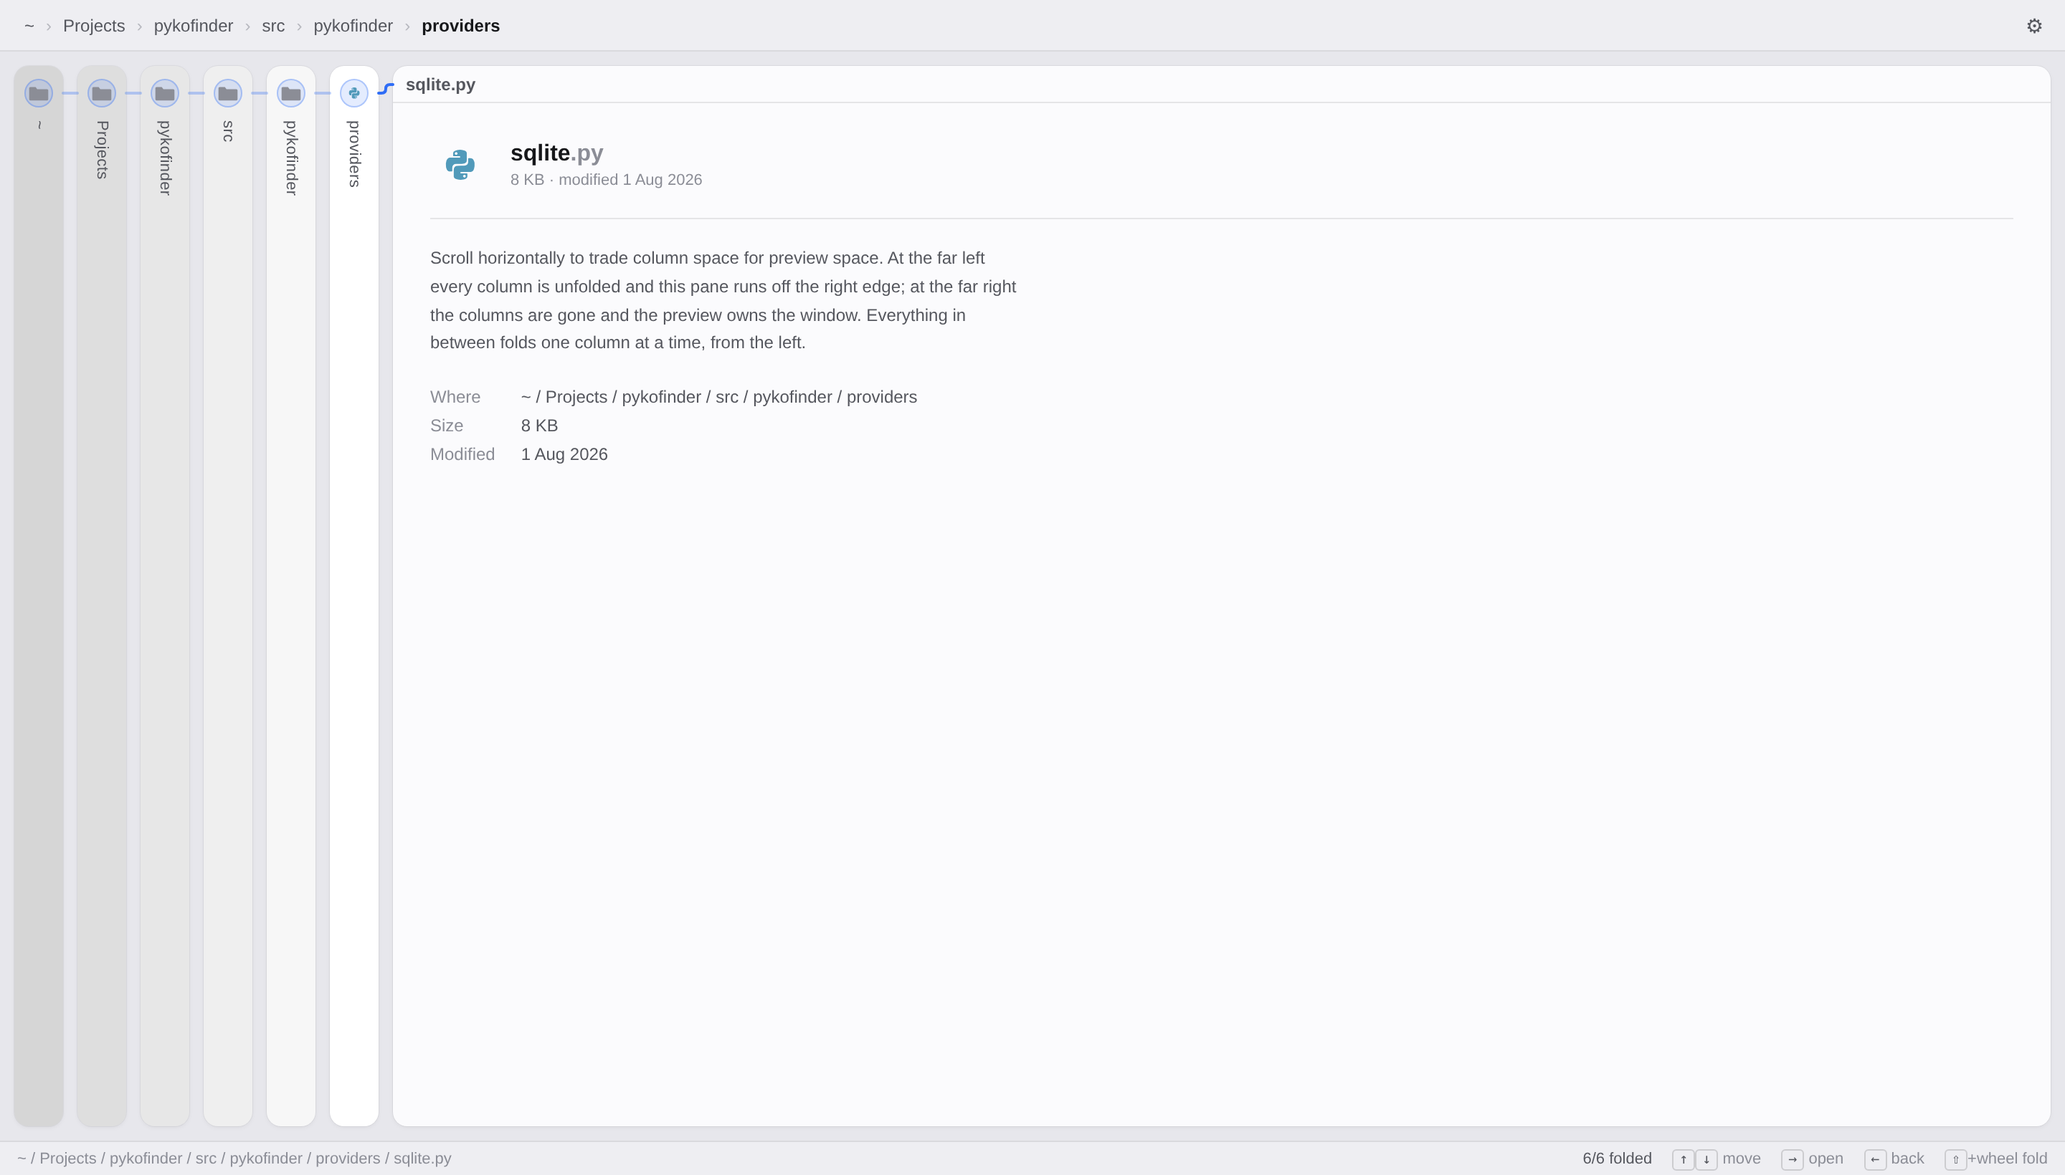
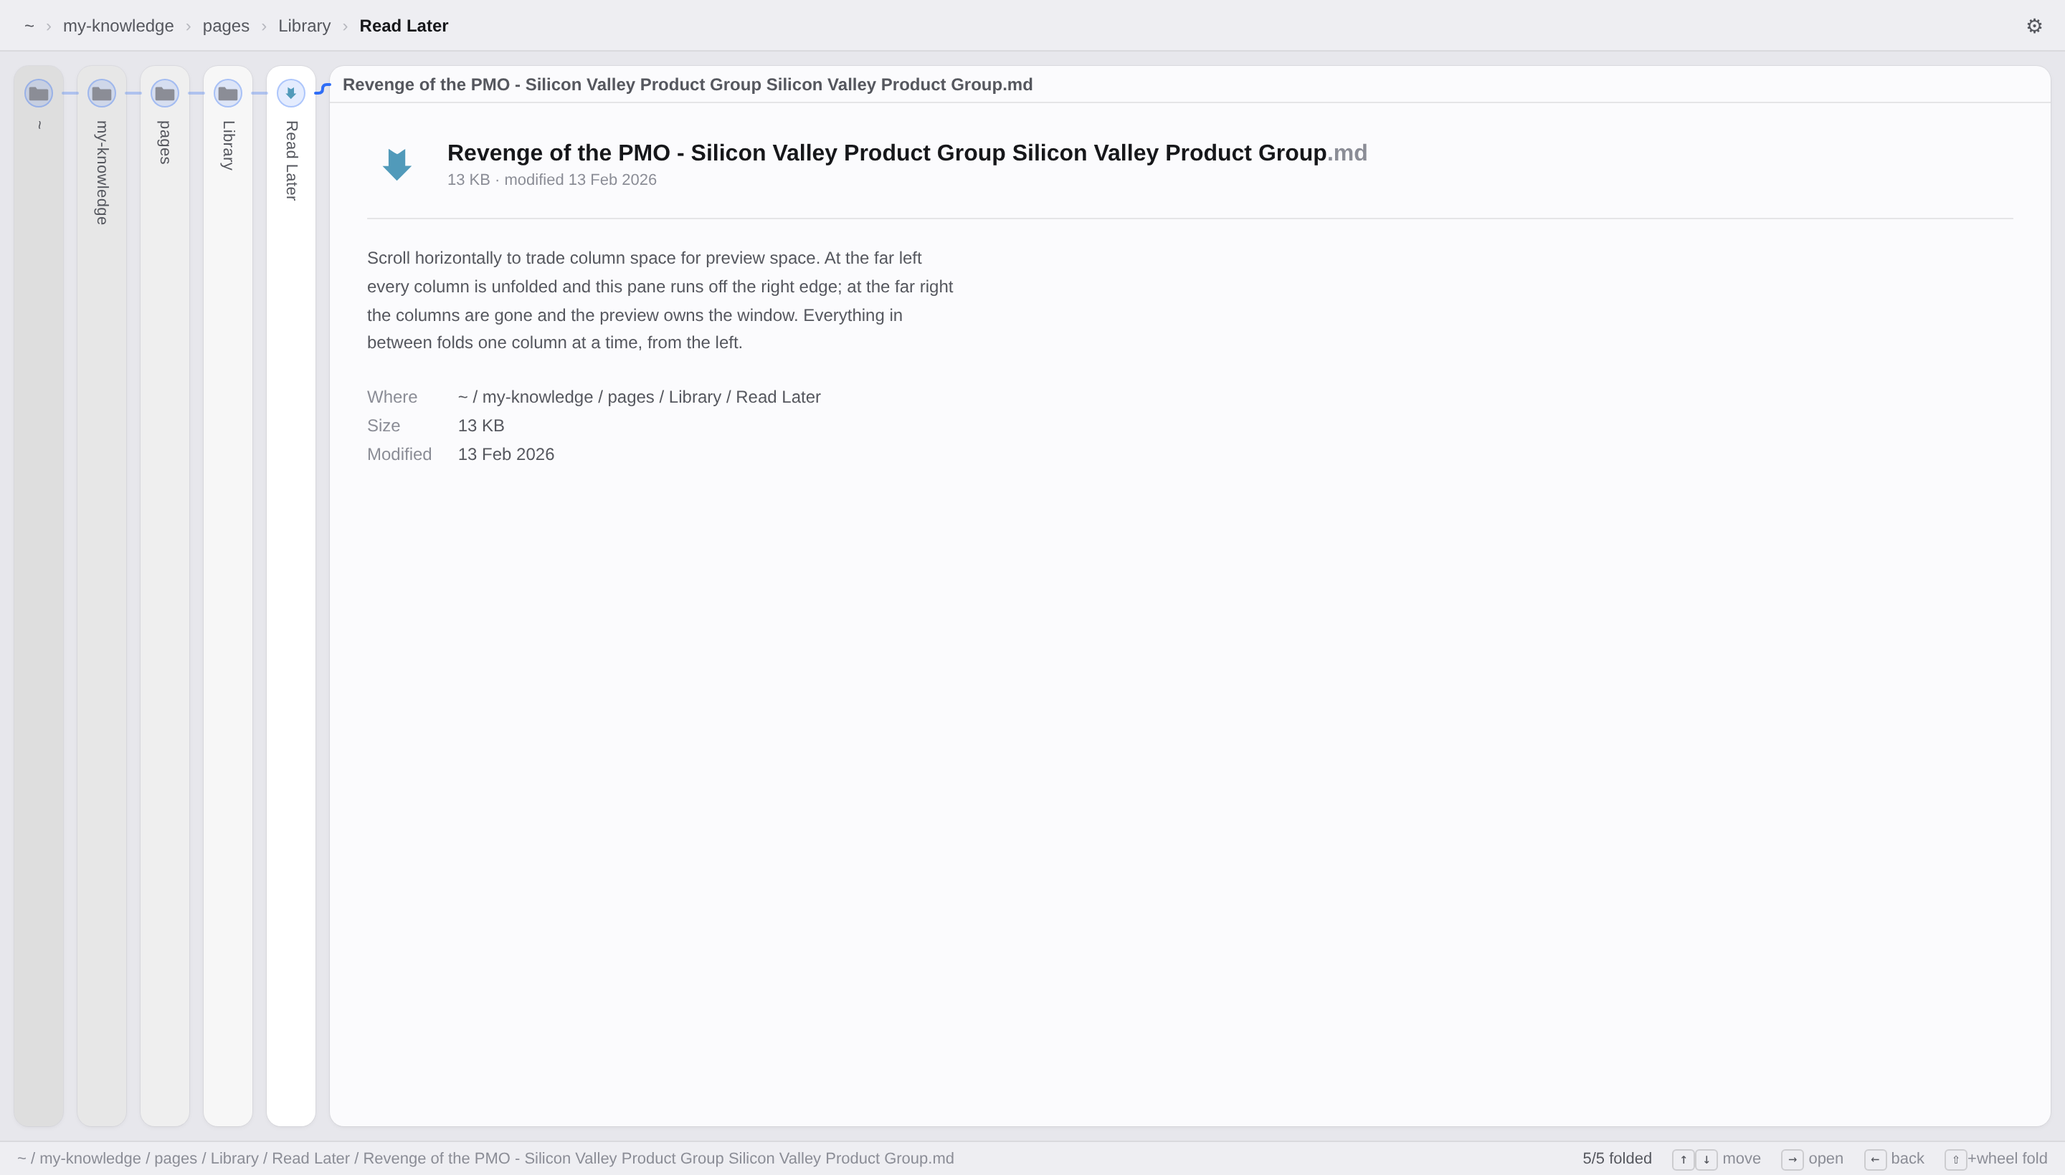
design(miller): continuous fold interpolation, real vault test data
Folding is no longer stepped. Within a column's own step of the dial its width
interpolates from full to spine width, and a crossfade on the same number swaps
its rows for its spine label — one continuous motion tracking the scroll 1:1.
The trail re-anchors from the selected row to the spine icon at the crossfade
midpoint so it stays attached throughout.

The mock tree is now a slice of the real ~/my-knowledge vault (private/ and
conversations/ excluded): 80-character page titles, Finnish diacritics, six
levels of nesting. That showed the 268px column cap losing ~60% of a long
title, so the cap is now 380px and rows carry a title attribute. Wide columns
are affordable because the dial can fold what you are not reading.

diff --git a/design/miller-columns.html b/design/miller-columns.html
@@ -177,6 +177,7 @@ body {
   background: var(--surface);
   box-shadow: var(--shadow-col);
   transition: background-color .18s;   /* NOT width: folding tracks the scroll 1:1 */
+  --fold: 0;
 }
 /* Depth recession: ancestors sink toward the chrome, focus stays bright. */
 .col[data-depth="1"] { background: color-mix(in srgb, var(--surface) calc(100% - 1 * var(--recede-amt)), var(--recede)); }
@@ -279,14 +280,23 @@ body {
 .row.cursor { box-shadow: 0 0 0 2px var(--accent), 0 0 0 4px var(--accent-weak); }
 .col.focus .row.cursor.sel { box-shadow: none; }
 
-/* ── Folded ancestor spines ────────────────────────────────────────────── */
+/* ── Folding: continuous, driven straight off the scroll dial ──────────── */
+/* --fold runs 0→1 across the column's own step of the dial. Width is
+   interpolated in JS; the crossfade below rides the same number, so the
+   column narrows and turns into its spine in one continuous motion. */
 .col.spine { width: var(--spine-w) !important; cursor: pointer; }
 .col.spine .col-head, .col.spine .col-body { display: none; }
-.col.spine .spine-label {
-  display: flex; flex-direction: column; align-items: center;
-  gap: 9px; padding: 9px 0; height: 100%; overflow: hidden;
+.col.folding .col-head, .col.folding .col-body {
+  opacity: clamp(0, calc(1.6 - var(--fold) * 2), 1);
 }
-.col:not(.spine) .spine-label { display: none; }
+.spine-label {
+  position: absolute; inset: 0; z-index: 2;
+  display: flex; flex-direction: column; align-items: center;
+  gap: 9px; padding: 9px 0; overflow: hidden;
+  opacity: 0; pointer-events: none;
+}
+.col.spine .spine-label { opacity: 1; }
+.col.folding .spine-label { opacity: clamp(0, calc(var(--fold) * 2 - 1), 1); }
 /* the chosen child stays visible even when its column is folded away */
 .spine-label .dot {
   flex: 0 0 auto; width: 20px; height: 20px; border-radius: 50%;
@@ -423,6 +433,132 @@ const TREE = d("~", [
     f("avatar.png","24 KB","3 Jan 2026"),
   ]),
   d("Downloads", [ f("uv-0.9.2.tar.gz","14 MB","12 Aug 2026"), f("playwright.zip","98 MB","9 Aug 2026") ]),
+  /* ── real names, real depth: a slice of an actual Logseq vault ─────────────
+     Generated from ~/my-knowledge (private/ and conversations/ left out).
+     This is the stress case: 80-character titles, Finnish diacritics, sibling
+     directories that differ only in their tail, and six levels of nesting. */
+  d("my-knowledge", [
+    d("archives", []),
+    d("bin", []),
+    d("docs", [
+      d("agents", []),
+      d("superpowers", []),
+      f("android-periodic-photos.md", "6.4 KB", "14 Feb 2026"),
+      f("kuuskaks-debloat.md", "4.3 KB", "14 Feb 2026"),
+      f("kuuskaks-packages-before.txt", "10 KB", "14 Feb 2026"),
+      f("literate.md", "36 KB", "26 Mar 2026"),
+      f("pkmctl-hooks-schedulers.md", "6.9 KB", "9 Aug 2026"),
+      f("pkmctl-instruction-surface.md", "1.4 KB", "9 Aug 2026"),
+      f("pkmctl-portfolio-triage.md", "5.5 KB", "9 Aug 2026"),
+    ]),
+    d("journals", [
+      d("2024", []), d("2025", []), d("2026", []), d("media", []),
+      f("ccm-third-party-max-policy-research-2026-04-08.md", "7.9 KB", "8 Apr 2026"),
+      f("ccm-token-watch-2026-03-09.md", "71 KB", "4 Apr 2026"),
+      f("ccm-token-watch-2026-04-08.md", "5.9 KB", "8 Apr 2026"),
+    ]),
+    d("pages", [
+      d("Areas", []), d("Cheat Sheets", []), d("Coaching", []), d("Hawkins book club", []),
+      d("IT", [
+        d("devices", []),
+        f("Active Projects Dashboard.md", "3.5 KB", "7 Mar 2026"),
+        f("Agent memory architecture - 2026 practical patterns.md", "6.3 KB", "13 Mar 2026"),
+        f("Agent orchestrator deployment plans - 2026-07.md", "13 KB", "22 Jul 2026"),
+        f("Agentic Coding - minimaxir Learnings.md", "8.7 KB", "8 Mar 2026"),
+        f("Agentic coding tools - promising tools and optimisations.md", "8.7 KB", "18 May 2026"),
+        f("AI Agent Crypto Tracking.md", "15 KB", "23 Feb 2026"),
+        f("AI coding agent control planes - Kandev Copilot Gas Town and Beads - 2026-08.md", "17 KB", "9 Aug 2026"),
+        f("AI Keyboard Screen Context Research.md", "8.1 KB", "23 Feb 2026"),
+        f("Asana Integration Analysis.md", "8.8 KB", "7 Mar 2026"),
+        f("Asana Plugin vs Skill Analysis.md", "5.8 KB", "13 Feb 2026"),
+        f("Atom Session Access Options.md", "11 KB", "28 May 2026"),
+        f("Backup Management.md", "338 B", "13 Feb 2026"),
+        f("CCM OAuth refresh investigation 2026-04-03.md", "5.3 KB", "3 Apr 2026"),
+      ]),
+      d("Library", [
+        d("Clippings", [
+          f("The Five Levels from Spicy Autocomplete to the Dark Factory 1.md", "40 B", "13 Feb 2026"),
+          f("The Five Levels from Spicy Autocomplete to the Dark Factory.md", "6.4 KB", "13 Feb 2026"),
+        ]),
+        d("Read Later", [
+          f("Beyond the Holacracy Hype.md", "2.9 KB", "13 Feb 2026"),
+          f("Emotional Intelligence Consortium - Articles, Research and Information on E.md", "12 KB", "13 Feb 2026"),
+          f("Game B - Game B Wiki.md", "99 KB", "13 Feb 2026"),
+          f("Google Project Aristotle - 5 Keys to Team Success - Modern Operations Apps.md", "7.1 KB", "13 Feb 2026"),
+          f("Hey folks, here's the entire Computer Science curriculum organized in 1000 .md", "9.1 KB", "13 Feb 2026"),
+          f("How to Become a High-Performing Software Team.md", "5.4 KB", "13 Feb 2026"),
+          f("Hypermodern Python Cookiecutter documentation.md", "3.8 KB", "13 Feb 2026"),
+          f("Image alignment and registration with OpenCV - PyImageSearch.md", "27 KB", "13 Feb 2026"),
+          f("Production-ready Docker Containers with uv.md", "9.9 KB", "13 Feb 2026"),
+          f("Psych Safety and Team EI The Antidote to the Five Dysfunctions of a Team -.md", "7.8 KB", "8 Mar 2026"),
+          f("Revenge of the PMO - Silicon Valley Product Group  Silicon Valley Product Group.md", "13 KB", "13 Feb 2026"),
+          f("Running Python in the Browser – Python Tips.md", "14 KB", "13 Feb 2026"),
+          f("Scrum Master Theses From a Holistic Product Creation Perspective.md", "23 KB", "13 Feb 2026"),
+          f("Six easy ways to run your Jupyter Notebook in the cloud.md", "44 KB", "13 Feb 2026"),
+        ]),
+      ]),
+      d("Life", [
+        d("Koivusyrjän pihan hoito", [
+          d("assets", [
+            f("koivusyrja-ilmakuva.jpg", "63 KB", "17 Jul 2026"),
+            f("koivusyrja-karttapohja.svg", "2.6 KB", "17 Jul 2026"),
+          ]),
+          f("AGENTS.md", "4.0 KB", "17 Jul 2026"),
+          f("Ajankohtainen katsaus.md", "3.7 KB", "13 Aug 2026"),
+          f("Ideoita muista puutarha-agenteista.md", "5.2 KB", "17 Jul 2026"),
+          f("Kasvirekisteri.md", "4.1 KB", "18 Jul 2026"),
+          f("Koivusyrjä-puutarhakartta.geojson", "2.6 KB", "17 Jul 2026"),
+          f("Koivusyrjän puutarha-agentti.md", "2.5 KB", "18 Jul 2026"),
+          f("Kuukausikatsaus.md", "4.8 KB", "1 Aug 2026"),
+          f("Neuvontakierros 2026-07-18.md", "12 KB", "18 Jul 2026"),
+          f("Perheen käyttöohje.md", "1.6 KB", "17 Jul 2026"),
+          f("Pihan alueet.md", "3.0 KB", "18 Jul 2026"),
+          f("Puutarhakartta.md", "4.4 KB", "17 Jul 2026"),
+          f("Puutarhapäiväkirja.md", "2.1 KB", "18 Jul 2026"),
+          f("Rusopajuangervon leikkaus.md", "1.6 KB", "17 Jul 2026"),
+        ]),
+        d("Kuluttaja-asiat", []),
+        d("Tottila", []),
+        f("_index.md", "2.4 KB", "9 Aug 2026"),
+      ]),
+      d("PKB", [
+        d("AI agent intelligence", []), d("Pi Session Reviews", []), d("reviews", []),
+        f("ACP watchdog health report.md", "76 B", "15 Jul 2026"),
+        f("Agent memory - Open Brain architecture (Nate B Jones).md", "14 KB", "17 Apr 2026"),
+        f("Agentic Markdown project and task systems - research synthesis.md", "60 KB", "16 Aug 2026"),
+        f("AI agent intelligence watchlist.md", "3.1 KB", "15 Apr 2026"),
+        f("Discarded topics.md", "548 B", "19 Jul 2026"),
+        f("gas-grill-comparison-data.md", "5.8 KB", "25 Jul 2026"),
+        f("Glossary.md", "5.2 KB", "5 Jun 2026"),
+        f("Improvement backlog.md", "5.8 KB", "16 Jul 2026"),
+        f("inbox.md", "11 KB", "15 Aug 2026"),
+        f("index.md", "2.5 KB", "9 Aug 2026"),
+      ]),
+      d("Piano", []), d("Projects", []), d("Public", []),
+      d("Resources", [ d("Agile", []), d("AI Coding Agents", []) ]),
+      d("Routines", []), d("Self-Development", []), d("Slurped Pages", []), d("Software", []),
+      d("tasks", [
+        f("task-apply-the-57-portfolio-triage-decisions-to-vault-records.md", "3.1 KB", "12 Aug 2026"),
+        f("task-define-the-vault-convention-for-project-area-idea-close-and-routine-classifications.md", "5.4 KB", "12 Aug 2026"),
+        f("task-generate-the-unified-whole-portfolio-orientation-view.md", "2.2 KB", "12 Aug 2026"),
+        f("task-korjaa-koivusyrj-n-lasitetun-terassin-haljennut-pleksikatto.md", "1.4 KB", "9 Aug 2026"),
+        f("task-retire-or-supersede-the-split-project-and-life-dashboards.md", "1.9 KB", "12 Aug 2026"),
+        f("task-run-pkmctl-lint-and-commit-the-triage-batch.md", "1.1 KB", "12 Aug 2026"),
+        f("task-siirr-agent-style-repositorio-atomilta-gogolle.md", "1.6 KB", "9 Aug 2026"),
+        f("task-update-and-close-github-issue-28-after-triage-acceptance.md", "1.3 KB", "12 Aug 2026"),
+        f("task-verify-and-enforce-the-portfolio-wip-limit.md", "980 B", "12 Aug 2026"),
+      ]),
+      d("work", []),
+      f("Ostoslista.md", "1.1 KB", "14 Aug 2026"),
+      f("Quotes.md", "3.4 KB", "5 Jun 2026"),
+      f("Start page.md", "2.8 KB", "9 Aug 2026"),
+    ]),
+    f("AGENTS.md", "18 KB", "9 Aug 2026"),
+    f("CODING_STANDARDS.md", "118 B", "9 Aug 2026"),
+    f("HEARTBEAT.md", "1.8 KB", "21 Feb 2026"),
+    f("IDENTITY.md", "751 B", "13 Feb 2026"),
+    f("README.md", "2.7 KB", "22 Mar 2026"),
+  ]),
   d(".config", [ d("coding-agents", [ f("AGENTS.md","6 KB","16 Aug 2026"), f("python.md","3 KB","2 Aug 2026") ]) ]),
   f(".zshrc","2 KB","1 Jul 2026"),
   f("TODO.md","1.2 KB","16 Aug 2026"),
@@ -456,9 +592,10 @@ const stage   = document.getElementById("stage");
 const strip   = document.getElementById("strip");
 const trail   = document.getElementById("trail");
 
-let path = [TREE, TREE.kids[1], TREE.kids[1].kids[0]];  // ~/Projects/pykofinder
-let sel  = ["Projects", "pykofinder", "README.md"];      // selection per column
-let focusCol = 2;
+const START = ["my-knowledge", "pages", "Library", "Read Later"];
+let path = START.reduce((acc, nm) => [...acc, acc.at(-1).kids.find(k => k.name === nm)], [TREE]);
+let sel  = [...START, "Revenge of the PMO - Silicon Valley Product Group  Silicon Valley Product Group.md"];
+let focusCol = START.length;
 let cursor = {};                                         // col index -> row index
 let widths = [];                                         // natural width per column
 let folded = 0;                                          // columns currently folded
@@ -496,7 +633,9 @@ function measure(node) {
   for (const k of visibleKids(node)) w = Math.max(w, c.measureText(k.name).width);
   c.font = `600 ${cs.getPropertyValue("--fs-head").trim()} ${cs.getPropertyValue("--font")}`;
   w = Math.max(w, c.measureText(node.name).width + 34);
-  return Math.min(268, Math.max(148, Math.ceil(w) + 58));
+  /* 380 not 268: a vault of 80-character page titles needs the room, and the
+     dial makes wide columns affordable — fold what you are not reading. */
+  return Math.min(380, Math.max(148, Math.ceil(w) + 58));
 }
 
 /* ═══════════════════════════════════════════════════════════════════════════
@@ -534,6 +673,7 @@ function render(keepScroll) {
         + (sel[i] === k.name ? " sel" : "")
         + (k.name.startsWith(".") ? " dotfile" : "")
         + (i === focusCol && cursor[i] === ri ? " cursor" : "");
+      row.title = k.name;   /* the full name is always one hover away */
       row.innerHTML = iconHTML(k)
         + `<span class="label">${stem}<span class="dim">${ext}</span></span>`
         + (k.dir ? `<span class="chev">›</span>` : "");
@@ -620,11 +760,20 @@ function applyScroll() {
   const n = path.length;
 
   /* the epsilon absorbs sub-pixel scrollLeft rounding at the fold boundaries */
-  folded = Math.min(n, Math.floor(p / foldUnit() + 0.002));
+  const raw = p / foldUnit() + 0.002;
+  folded = Math.min(n, Math.floor(raw));
+  /* how far into folding the next column is — 0 = full width, 1 = a spine */
+  const t = Math.min(1, Math.max(0, raw - folded));
+
   [...strip.querySelectorAll(".col")].forEach((col, i) => {
-    const spine = i < folded;
-    col.classList.toggle("spine", spine);
-    col.style.width = spine ? "" : widths[i] + "px";
+    col.classList.toggle("spine", i < folded);
+    col.classList.toggle("folding", i === folded && folded < n);
+    if (i < folded) { col.style.width = ""; return; }
+    col.dataset.fold = i === folded ? t : 0;
+    col.style.setProperty("--fold", col.dataset.fold);
+    col.style.width = (i === folded
+      ? Math.round(widths[i] + (SPINE() - widths[i]) * t)
+      : widths[i]) + "px";
   });
 
   /* last 1%: slide the spine strip itself off the left edge. Widening the strip
@@ -652,6 +801,9 @@ function paintTrail() {
   trail.style.width = fr.width + "px"; trail.style.height = fr.height + "px";
   let out = "";
 
+  /* a column past the crossfade midpoint anchors on its spine icon, not its rows */
+  const asSpine = el => el.classList.contains("spine") || +(el.dataset.fold || 0) > 0.5;
+
   const cols = [...strip.querySelectorAll(".col")];
   cols.forEach((col, i) => {
     const next = cols[i + 1] || document.getElementById("preview");
@@ -660,7 +812,7 @@ function paintTrail() {
 
     /* start: right edge of the selected pill, or the spine's icon when folded */
     let x1, y1;
-    if (col.classList.contains("spine")) {
+    if (asSpine(col)) {
       const dot = col.querySelector(".dot").getBoundingClientRect();
       x1 = cr.right - fr.left; y1 = dot.top + dot.height / 2 - fr.top;
     } else {
@@ -675,7 +827,7 @@ function paintTrail() {
     if (x1 < 0) return;   /* origin has slid off the left edge — no dangling hook */
 
     /* end: the next column's header — or its spine icon when that one is folded */
-    const anchor = next.classList.contains("spine")
+    const anchor = asSpine(next)
       ? next.querySelector(".dot") : next.querySelector(".col-head");
     const ar = anchor && anchor.getBoundingClientRect();
     const x2 = nr.left - fr.left;

diff --git a/design/README.md b/design/README.md
@@ -43,6 +43,11 @@ first draft. `scrollLeft` is read as a 0–100% dial:
 | **99%** | every column folded; the preview fills what is left |
 | **99–100%** | the spine strip itself slides away; at 100% the preview is alone |
 
+Folding is **continuous, not stepped**: within a column's own step of the dial its
+width is interpolated from full to spine width, and a crossfade riding the same
+number swaps its rows for its spine label. So the column narrows and turns into its
+spine in one motion, tracking the scroll 1:1 — no snap, no animation of its own.
+
 So the scrollbar means *"how much of the window do you want to spend on columns?"*
 Nothing is ever lost off an edge you can't get back from, and the two extremes are
 both genuinely useful: 0% is "show me the whole tree", 100% is "read this document".
@@ -137,35 +142,50 @@ glyphs for but never bound (`.nix`, `.db`, `.sqlite`, `.lock`, `.desktop`).
 | Tokens, columns, rows, three selection states, headers, dark theme | pure CSS | `styles.py` (`APP_CSS`) |
 | Column header markup + item count | small | `columns.py` (`list_column`, `list_vfs_column`) |
 | Seti font + map | 50 KB of static assets | `static/`, served like the existing PWA assets |
-| Scroll dial (rail/stage/strip + `applyScroll`) | ~60 lines JS | replaces `recalcColumnWidth`'s clamp logic |
+| Scroll dial + fold interpolation (rail/stage/strip + `applyScroll`) | ~70 lines JS | replaces `recalcColumnWidth`'s clamp logic |
 | Trail overlay | ~50 lines JS, repaints on render / column scroll / dial | `styles.py` JS block |
 | Settings popover | small | `columns.py` (`render_breadcrumb`) + CSS |
 
 Two caveats for the real implementation:
 
 - **Do not transition column width.** Folding tracks the scroll 1:1; a CSS
-  transition makes the trail paint against stale geometry.
+  transition makes the trail paint against stale geometry. Interpolating width
+  directly from `scrollLeft` is fine — that is the opposite of animating it.
 - The trail must repaint on column body scroll as well as on the dial, and skip any
   segment whose origin has scrolled out of its column body or off the left edge.
+
+## Test data
+
+The mock tree is a slice of a real Logseq vault (`~/my-knowledge`), not invented
+names — 80-character page titles, Finnish diacritics, sibling directories that
+differ only in their tail, and six levels of nesting. `private/` and
+`conversations/` are deliberately left out.
+
+That surfaced one real finding: at the first draft's 268px column cap, an
+80-character title lost about 60% of its text. The cap is now **380px**, which
+shows ~55 characters, and every row carries a `title` so the full name is one
+hover away. Wide columns are affordable precisely because the dial exists — fold
+what you are not reading. The preview header, hero and status bar all show the
+untruncated name.
 
 ## Screenshots
 
 | File | Shows |
 | --- | --- |
-| `01-default.png` | opening state, three columns |
-| `02-deep-default.png` | six levels deep, default dial position |
-| `03-scroll-000.png` | dial at 0% — nothing folded, preview overflows right |
-| `04-scroll-035.png` | dial mid-way |
+| `01-default.png` | opening state — `~/my-knowledge/pages/Library/Read Later`, 3 of 5 folded to pay for the long titles |
+| `02-scroll-000.png` | dial at 0% — nothing folded, preview overflows right |
+| `03-fold-midway.png` | a column caught mid-fold: narrowed, rows fading out, spine icon fading in |
+| `04-scroll-040.png` | dial at 40% |
 | `05-scroll-099.png` | dial at 99% — all folded, preview fills |
 | `06-scroll-100.png` | dial at 100% — preview alone |
-| `07-settings.png` | the ⚙ menu |
+| `07-deep-finnish.png` | six levels into `pages/Life/Koivusyrjän pihan hoito/assets` |
 | `08-dark.png` | dark theme |
 
 ## Open question
 
 **Trail weight at 6+ columns.** Settled as good at the current 2px solid / soft
-thread. Worth one more look once it is running against real directory listings,
-where more columns are scrolled mid-list and more segments get suppressed.
+thread. Worth one more look once it runs against live listings, where more columns
+are scrolled mid-list and more segments get suppressed.
 
 [proto]: ./miller-columns.html
 [shots]: ./shots/
